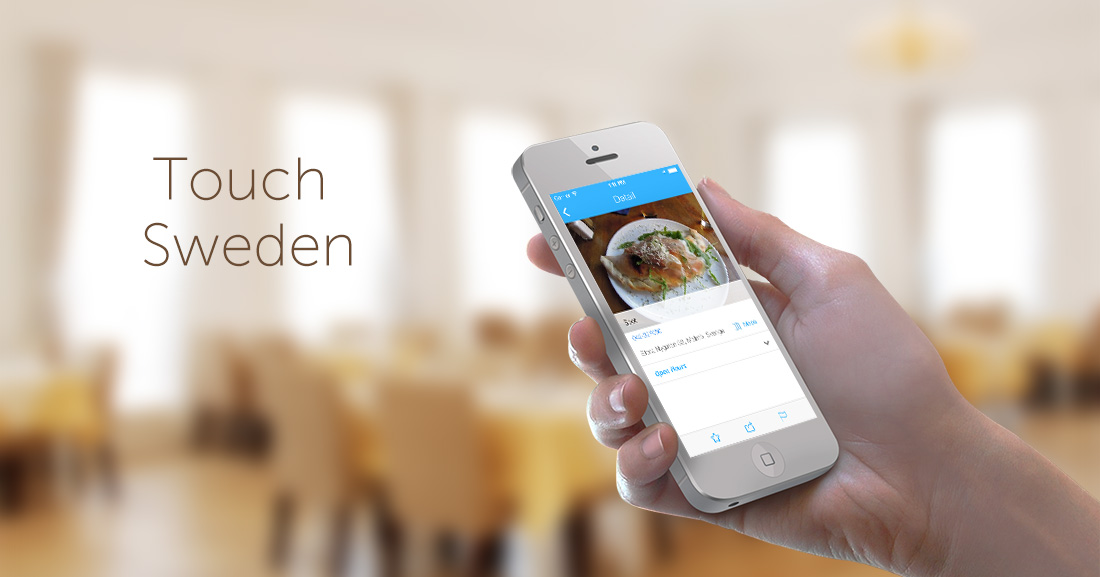
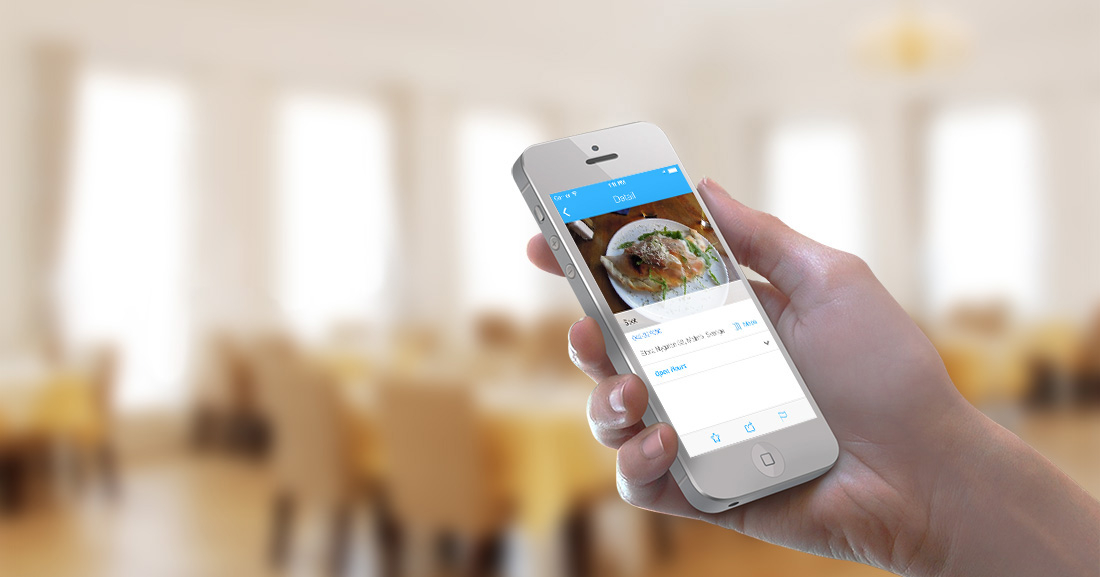
add kundsystem

Changed region(s): [[0.1236, 0.3744, 0.34, 0.4679], [0.1545, 0.2808, 0.3091, 0.3432], [0.1545, 0.5615, 0.1855, 0.6551]]

diff --git a/kundsystem.html b/kundsystem.html
@@ -42,9 +42,9 @@
       </div>
     </div>
   </div>
-  <div class="splash"><img src="assets/img/app-banner-bg.jpg" alt="Banner" /> </div>
+  <div class="splash"><img src="assets/img/kundsystem.jpg" alt="Banner" /> </div>
   <div class="container show-case-item">
-    <h1>Touch Sweden</h1>
+    <h1>Kundsystem</h1>
     <p>&nbsp;</p>
     <p>&nbsp;</p>
     <p>&nbsp;</p>
@@ -63,48 +63,39 @@
 </div>
 <div class="container">
   <div class="marketing" id="#abc">
-    <h1>Touch Sweden</h1>
+    <h1>Kundsystem</h1>
     <p class="marketing-byline"> </p>
     <hr class="soften">
     <div class="row-fluid">
         <p>
-          Touch Sweden är vår tjänst som gör det möjligt för enskilda butiksägare och restauranger att skapa sin egen mobilsida, 
-          <br>och göra den tillgänglig för konsumenter och turister på ett enkelt och intuitivt sätt.
-          <br>Som näringsidkare behöver du inte längre tänka på de senaste nyheterna och trenderna på IT fronten. 
-          <br>Vi underhåller och uppdaterar systemet så att du som näringsidkare kan känna dig trygg i att din butik eller restaurang finns uppe för mobila besökare.
-        </p>
-        <p>
-          Touch Sweden är en app för butiker, caféer och restauranger att synas för sina kunder på mobiler och surfplattor. 
-          <br>På Touch Sweden kan din verksamhet ha din egen personliga hemsida som funkar på mobiler och surfplattor.
-          <br>Vår plattform är flexibel och du kan ha båda produktbilder och restaurangmenyer upplagda på din personliga hemsida.
-          <br>Vi underhåller och uppdaterar systemet så att du som näringsidkare kan känna dig trygg med att tjänsten funkar så att du kan fokusera på din verksamhet.
+          Med vårt kundsystem gör vi det enkelt och smidigt för varje butik, café eller restaurang att ha sina egna kundkort. 
+          <br>Vårt digitala kundkort gör att era kunder inte längre behöver ha med sig varken papper eller plastkort för att få del av förmånerna i er butik,café eller restaurang.
+          <br>Med MTS Kundsystem kan du som ägare lätt få en översikt över era kunder som är med i ditt kundprogram. 
+          <br>Utöver det kan du även kommunicera exklusiva erbjudanden till dina lojala kunder via direkt meddelanden eller SMS.
         </p>
     </div>
     <hr class="soften">
     <div class="row-fluid textright">
       <div class="span5">
        <div class="benefit clearfix">
-          <div class="perks-title"><li> Enkel att använda</li></div>
+          <div class="perks-title"><li> Enkel översikt över vilka som är dina lojala kunder</li></div>
         </div>
         <div class="benefit clearfix">
-          <div class="perks-title"><li> Fungerar på båda mobiler och surfplattor</li></div>
+          <div class="perks-title"><li> Kommunicera exklusiva erbjudanden direkt till de lojala kunderna</li></div>
         </div>
       </div>
 
       <div class="row-fluid textright">
         <div class="span5">
           <div class="benefit clearfix">
-            <div class="perks-title"><li> Flexibel plattform</li></div>
+            <div class="perks-title"><li> Inga plast- eller papperskort</li></div>
           </div>
-          <div class="benefit clearfix">
-            <div class="perks-title"><li> Når fler användare</li></div>
-          </div>
-
-
         </div>
-
       </div>
-
+      <hr class="soften">
+      <div class="container">
+        <h5>SMS är den effektivaste metoden för att skicka information direkt till kund.<br>Sista minuten kampanjer, schemalägga utskick ex after work etc.<h5>
+      </div>
     </div>
 
   </div>

diff --git a/index.html b/index.html
@@ -36,6 +36,7 @@
               <ul class="nav">
                 <li class="active"><a href="index.html">Huvudsida</a> </li>
                 <li><a href="app.html">Tjänster</a> </li>
+                <li><a href="kundsystem.html">Kundsystem</a> </li>
                 <li><a href="contact.html">Kontakt</a> </li>
               </ul>
             </div>
@@ -138,11 +139,13 @@
       <p>Hanway Tran</p>
       <p>Hanway.tran@mtscandic.com</p>
       <p>+46 70-787 56 81</p>
-      <br>
+        
+    </div>
+
+    <div class="contact2">
       <p>Weigang Xu</p>
       <p>Weigang.xu@mtscandic.com</p>
       <p>+46 76-193 80 54</p>
-        
     </div>
 
     <hr class="soften1 copyhr">

diff --git a/assets/css/docs.css b/assets/css/docs.css
@@ -781,10 +781,20 @@ footer .copyright {
 	margin-bottom: 40px;
 }
 footer .contact {
+	float: right;
 	text-align: right;
 	border-bottom: 0px;
 	font-size: 1.0em;
 	margin-bottom: 40px;
+}
+
+footer .contact2{
+	float: right;
+	text-align: right;
+	border-bottom: 0px;
+	font-size: 1.0em;
+	margin-bottom: 40px;
+	margin-right: 100px;
 }
 .footer ul {
 	list-style: none;
